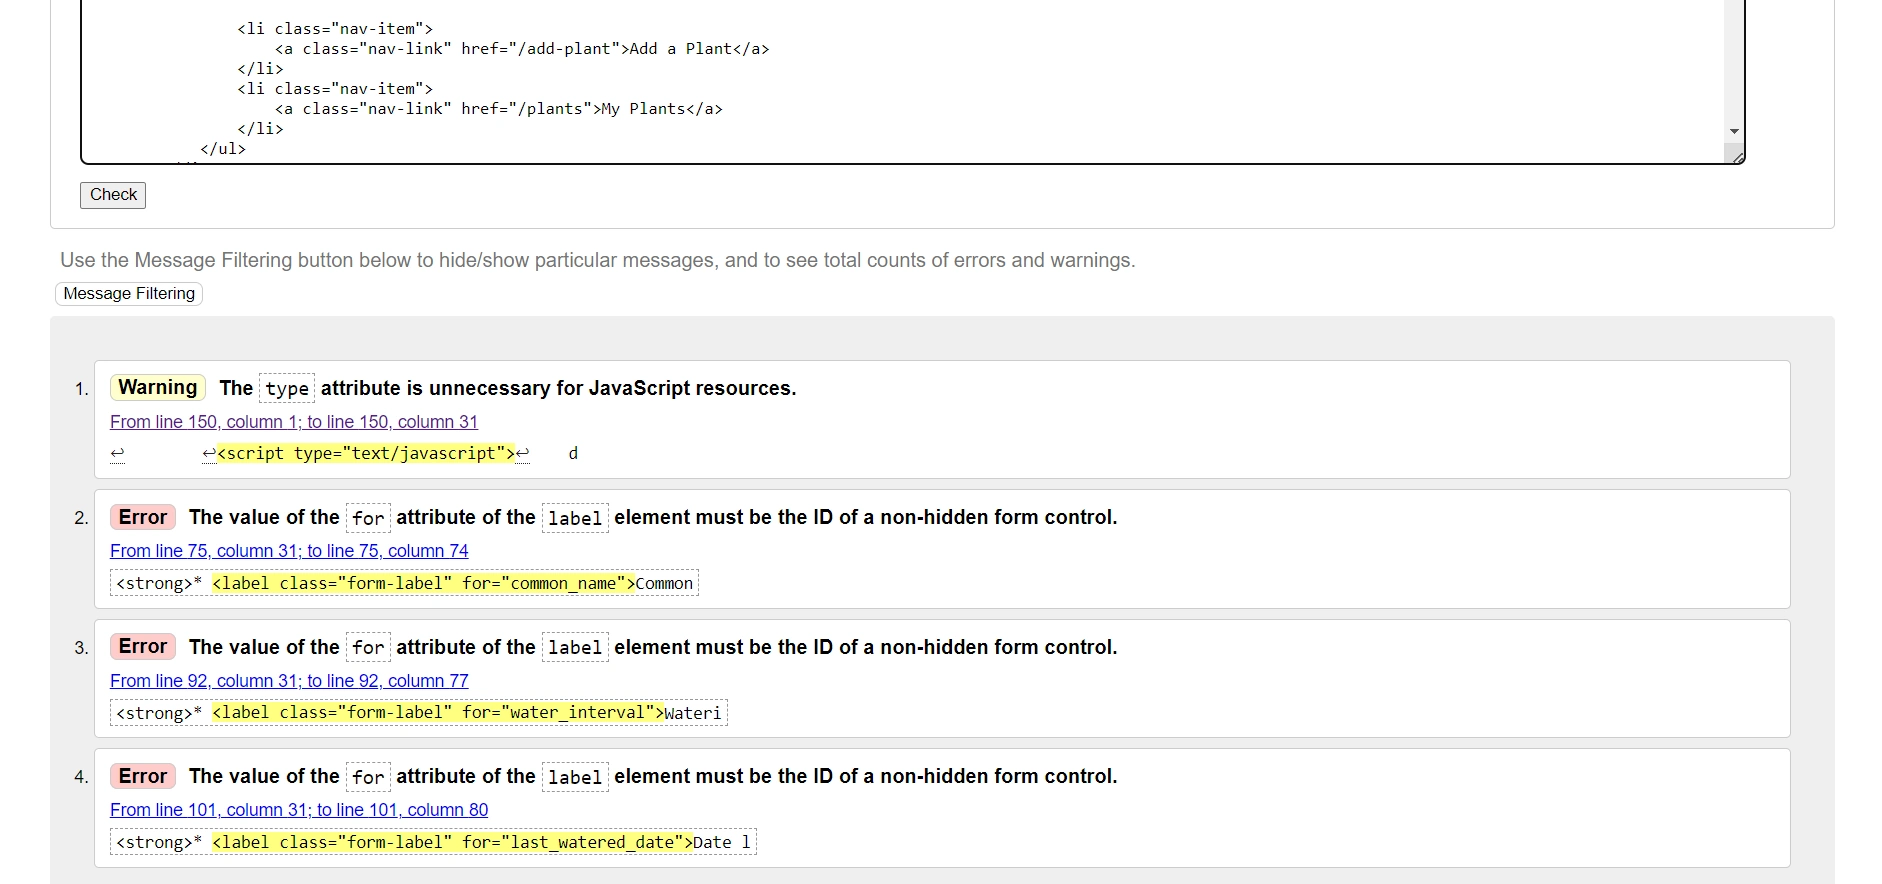
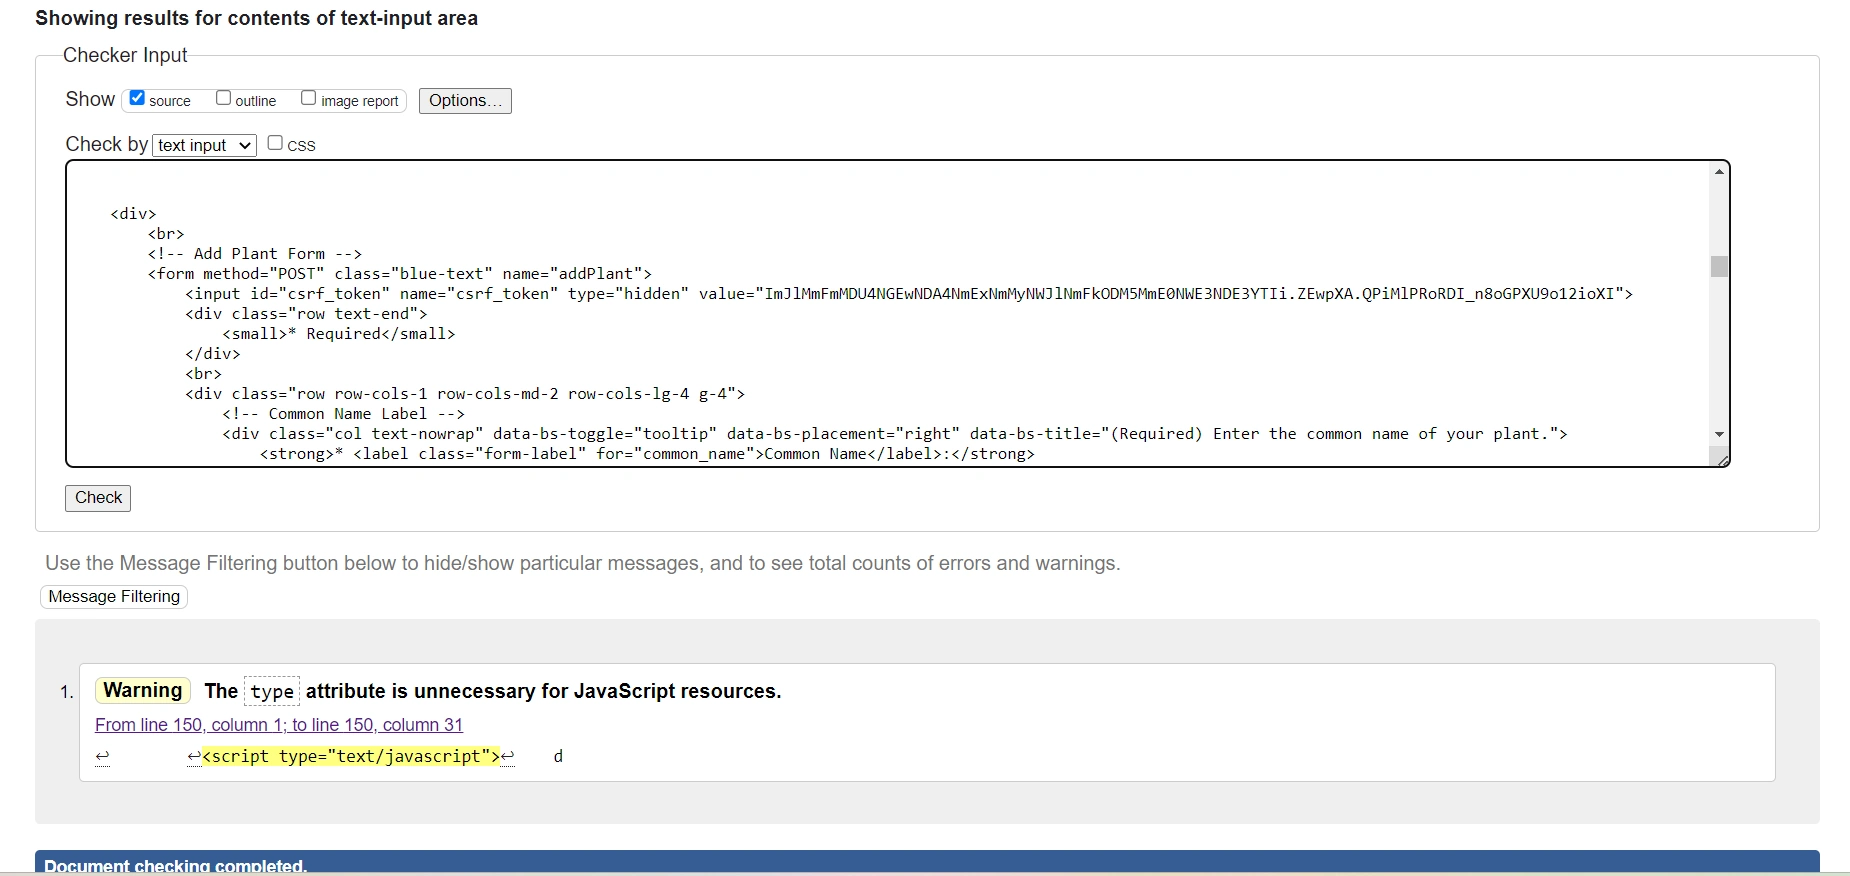
Fix validation errors on Add Plant page

Changed region(s): [[0.0, 0.0, 1.0, 1.0], [0.9243, 0.2774, 0.9551, 0.339], [0.3081, 0.0925, 0.3389, 0.1233]]

diff --git a/README.md b/README.md
@@ -556,7 +556,7 @@ The [W3C HTML Validator](https://validator.w3.org/) was used to validate the HTM
 * Results from the [account](plantplanner/static/images/readme/account_val.webp) page check.
 * Results from the [add_plant](plantplanner/static/images/readme/add_plant_val.webp) page check.
    
-   The errors shown derive purely from the jinja code, which as far as I am aware are necessary to accept if I want to use Jinja in this way. 
+   The warning shown derives purely from the jinja code, which as far as I am aware, is necessary to accept if I want to use Jinja in this way. 
 
 * Results from the [add_user](plantplanner/static/images/readme/add_user_val.webp) page check.
 
